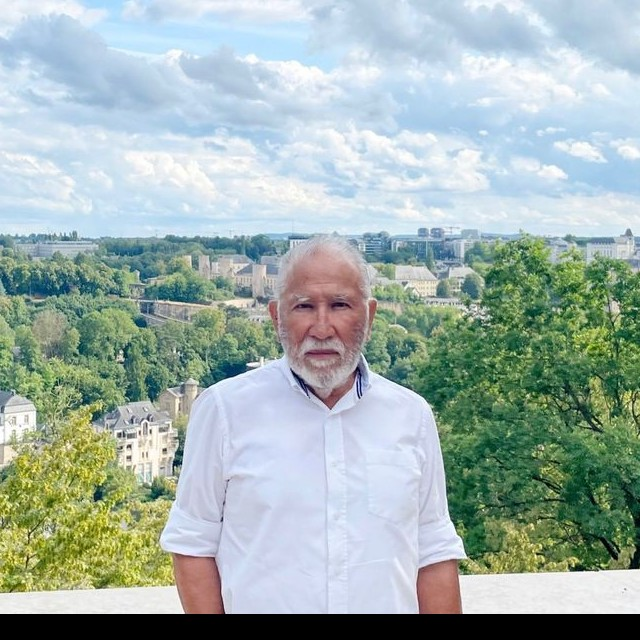
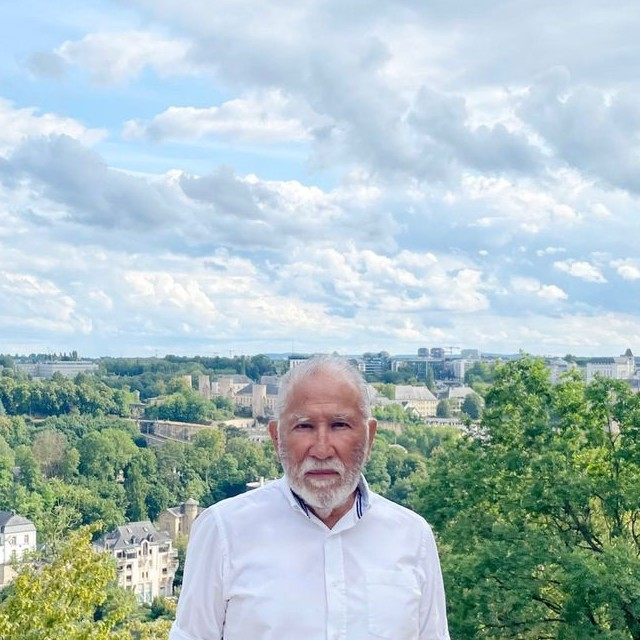
Fix black line and over-aggressive crop on mobile hero image
The crop rectangle (y=300, height=640) extended 26px past the
source photo's actual height (914px), so .NET filled the missing
rows with black — that was the line at the bottom. Regenerated the
crop starting higher up (y=180, safely within bounds) to also
restore a more natural amount of sky instead of almost none.
Switched background-position from "center bottom" back to "center
center" now that the file crop itself handles the framing, instead
of double-cropping on top of it.

diff --git a/trayectoria/index.html b/trayectoria/index.html
@@ -1,4 +1,4 @@
-<!DOCTYPE html><html lang="en"><head><script>if(localStorage.getItem('mca_unlocked')!=='1'){location.replace('/login.html?redirect='+encodeURIComponent(location.pathname+location.search));}</script><meta charset="utf-8"/><title>Trayectoria - Manuel Cárdenas Aspajo</title><meta content="Trayectoria profesional de Manuel Cárdenas Aspajo: formación como Ingeniero Civil y Arquitecto, experiencia en diseño estructural y supervisión técnica, y actividad académica universitaria." name="description"/><meta content="Trayectoria - Manuel Cárdenas Aspajo" property="og:title"/><meta content="Trayectoria profesional de Manuel Cárdenas Aspajo: formación como Ingeniero Civil y Arquitecto, experiencia en diseño estructural y supervisión técnica, y actividad académica universitaria." property="og:description"/><meta content="/images/64595fe96358086d4cb93f37_473Agency-Stolzl-Template-9.jpg" property="og:image"/><meta content="Trayectoria - Manuel Cárdenas Aspajo" name="twitter:title"/><meta content="Trayectoria profesional de Manuel Cárdenas Aspajo: formación como Ingeniero Civil y Arquitecto, experiencia en diseño estructural y supervisión técnica, y actividad académica universitaria." name="twitter:description"/><meta content="/images/64595fe96358086d4cb93f37_473Agency-Stolzl-Template-9.jpg" name="twitter:image"/><meta property="og:type" content="website"/><meta content="summary_large_image" name="twitter:card"/><meta content="width=device-width, initial-scale=1" name="viewport"/><link href="/css/mca-913f08.shared.406f649e9.css" rel="stylesheet" type="text/css" crossorigin="anonymous"/><link href="https://fonts.googleapis.com" rel="preconnect"/><link href="https://fonts.gstatic.com" rel="preconnect" crossorigin="anonymous"/><link href="https://fonts.googleapis.com/css2?family=DM+Sans:wght@400;500;700&family=Manrope:wght@200;300;400;500;600;700;800&display=swap" rel="stylesheet"/><script type="text/javascript">!function(o,c){var n=c.documentElement,t=" w-mod-";n.className+=t+"js",("ontouchstart"in o||o.DocumentTouch&&c instanceof DocumentTouch)&&(n.className+=t+"touch")}(window,document);</script><link href="/images/favicon-mca.png" rel="shortcut icon" type="image/png"/><link href="/images/favicon-mca.png" rel="apple-touch-icon"/><style>@media screen and (max-width:767px){section.padding-section-large:nth-of-type(2) .image-wrapper-grid,section.padding-section-large:nth-of-type(4) .image-wrapper-grid{order:-1;}section.padding-section-large:nth-of-type(1) .image-wrapper-grid{background-image:url(/images/trayectoria-hero-mobile.jpg);background-size:cover;background-position:center bottom;}section.padding-section-large:nth-of-type(1) .image-wrapper-grid picture{visibility:hidden;}}</style><!-- Cloudflare Web Analytics --><script type='module' src='https://static.cloudflareinsights.com/beacon.min.js' data-cf-beacon='{"token": "d984f8169b924b16a0b896f4c29c0e79"}'></script><!-- End Cloudflare Web Analytics --></head><body><div data-animation="default" class="nav-bar-component w-nav" data-easing2="ease" fs-scrolldisable-element="smart-nav" data-easing="ease" data-collapse="medium" data-w-id="a88aa5b4-1dde-e348-32a1-51b9f9bc93c0" role="banner" data-duration="400"><div class="navbar-container"><a href="/" class="navbar-logo-wrapper w-nav-brand"><img src="/images/logo-mca.svg" loading="lazy" width="91" alt="" class="navbar-logo"/></a><div class="navbar-menu-button w-nav-button"><div class="menu-icon"><div class="menu-icon-line-top"></div><div class="menu-icon-line-middle"><div class="menu-icon-line-middle-inner"></div></div><div class="menu-icon-line-bottom"></div></div></div><nav role="navigation" class="navbar-menu is-page-height-tablet w-nav-menu"><div class="navbar-link-wrapper"><a href="/" class="navbar-link w-nav-link">Inicio</a><div class="navbar-link-line"></div></div><div class="navbar-link-wrapper"><a href="/trayectoria/" aria-current="page" class="navbar-link w-nav-link w--current">Trayectoria</a><div class="navbar-link-line"></div></div><div class="navbar-link-wrapper"><a href="/servicios/" class="navbar-link w-nav-link">Servicios</a><div class="navbar-link-line"></div></div><div class="navbar-link-wrapper"><a href="/revision-urbana/" class="navbar-link w-nav-link">Revisión Urbana</a><div class="navbar-link-line"></div></div><div class="navbar-link-wrapper"><a href="/contacto/" class="navbar-link w-nav-link">Contacto</a><div class="navbar-link-line"></div></div><div data-hover="true" data-delay="200" data-w-id="a88aa5b4-1dde-e348-32a1-51b9f9bc93cb" class="navbar-menu-dropdown w-dropdown"><div class="navbar-dropdown-toggle w-dropdown-toggle"><div class="dropdown-icon w-embed"><svg width=" 100%" height=" 100%" viewBox="0 0 16 16" fill="none" xmlns="http://www.w3.org/2000/svg">
+<!DOCTYPE html><html lang="en"><head><script>if(localStorage.getItem('mca_unlocked')!=='1'){location.replace('/login.html?redirect='+encodeURIComponent(location.pathname+location.search));}</script><meta charset="utf-8"/><title>Trayectoria - Manuel Cárdenas Aspajo</title><meta content="Trayectoria profesional de Manuel Cárdenas Aspajo: formación como Ingeniero Civil y Arquitecto, experiencia en diseño estructural y supervisión técnica, y actividad académica universitaria." name="description"/><meta content="Trayectoria - Manuel Cárdenas Aspajo" property="og:title"/><meta content="Trayectoria profesional de Manuel Cárdenas Aspajo: formación como Ingeniero Civil y Arquitecto, experiencia en diseño estructural y supervisión técnica, y actividad académica universitaria." property="og:description"/><meta content="/images/64595fe96358086d4cb93f37_473Agency-Stolzl-Template-9.jpg" property="og:image"/><meta content="Trayectoria - Manuel Cárdenas Aspajo" name="twitter:title"/><meta content="Trayectoria profesional de Manuel Cárdenas Aspajo: formación como Ingeniero Civil y Arquitecto, experiencia en diseño estructural y supervisión técnica, y actividad académica universitaria." name="twitter:description"/><meta content="/images/64595fe96358086d4cb93f37_473Agency-Stolzl-Template-9.jpg" name="twitter:image"/><meta property="og:type" content="website"/><meta content="summary_large_image" name="twitter:card"/><meta content="width=device-width, initial-scale=1" name="viewport"/><link href="/css/mca-913f08.shared.406f649e9.css" rel="stylesheet" type="text/css" crossorigin="anonymous"/><link href="https://fonts.googleapis.com" rel="preconnect"/><link href="https://fonts.gstatic.com" rel="preconnect" crossorigin="anonymous"/><link href="https://fonts.googleapis.com/css2?family=DM+Sans:wght@400;500;700&family=Manrope:wght@200;300;400;500;600;700;800&display=swap" rel="stylesheet"/><script type="text/javascript">!function(o,c){var n=c.documentElement,t=" w-mod-";n.className+=t+"js",("ontouchstart"in o||o.DocumentTouch&&c instanceof DocumentTouch)&&(n.className+=t+"touch")}(window,document);</script><link href="/images/favicon-mca.png" rel="shortcut icon" type="image/png"/><link href="/images/favicon-mca.png" rel="apple-touch-icon"/><style>@media screen and (max-width:767px){section.padding-section-large:nth-of-type(2) .image-wrapper-grid,section.padding-section-large:nth-of-type(4) .image-wrapper-grid{order:-1;}section.padding-section-large:nth-of-type(1) .image-wrapper-grid{background-image:url(/images/trayectoria-hero-mobile.jpg);background-size:cover;background-position:center center;}section.padding-section-large:nth-of-type(1) .image-wrapper-grid picture{visibility:hidden;}}</style><!-- Cloudflare Web Analytics --><script type='module' src='https://static.cloudflareinsights.com/beacon.min.js' data-cf-beacon='{"token": "d984f8169b924b16a0b896f4c29c0e79"}'></script><!-- End Cloudflare Web Analytics --></head><body><div data-animation="default" class="nav-bar-component w-nav" data-easing2="ease" fs-scrolldisable-element="smart-nav" data-easing="ease" data-collapse="medium" data-w-id="a88aa5b4-1dde-e348-32a1-51b9f9bc93c0" role="banner" data-duration="400"><div class="navbar-container"><a href="/" class="navbar-logo-wrapper w-nav-brand"><img src="/images/logo-mca.svg" loading="lazy" width="91" alt="" class="navbar-logo"/></a><div class="navbar-menu-button w-nav-button"><div class="menu-icon"><div class="menu-icon-line-top"></div><div class="menu-icon-line-middle"><div class="menu-icon-line-middle-inner"></div></div><div class="menu-icon-line-bottom"></div></div></div><nav role="navigation" class="navbar-menu is-page-height-tablet w-nav-menu"><div class="navbar-link-wrapper"><a href="/" class="navbar-link w-nav-link">Inicio</a><div class="navbar-link-line"></div></div><div class="navbar-link-wrapper"><a href="/trayectoria/" aria-current="page" class="navbar-link w-nav-link w--current">Trayectoria</a><div class="navbar-link-line"></div></div><div class="navbar-link-wrapper"><a href="/servicios/" class="navbar-link w-nav-link">Servicios</a><div class="navbar-link-line"></div></div><div class="navbar-link-wrapper"><a href="/revision-urbana/" class="navbar-link w-nav-link">Revisión Urbana</a><div class="navbar-link-line"></div></div><div class="navbar-link-wrapper"><a href="/contacto/" class="navbar-link w-nav-link">Contacto</a><div class="navbar-link-line"></div></div><div data-hover="true" data-delay="200" data-w-id="a88aa5b4-1dde-e348-32a1-51b9f9bc93cb" class="navbar-menu-dropdown w-dropdown"><div class="navbar-dropdown-toggle w-dropdown-toggle"><div class="dropdown-icon w-embed"><svg width=" 100%" height=" 100%" viewBox="0 0 16 16" fill="none" xmlns="http://www.w3.org/2000/svg">
 <path fill-rule="evenodd" clip-rule="evenodd" d="M2.55806 6.29544C2.46043 6.19781 2.46043 6.03952 2.55806 5.94189L3.44195 5.058C3.53958 4.96037 3.69787 4.96037 3.7955 5.058L8.00001 9.26251L12.2045 5.058C12.3021 4.96037 12.4604 4.96037 12.5581 5.058L13.4419 5.94189C13.5396 6.03952 13.5396 6.19781 13.4419 6.29544L8.17678 11.5606C8.07915 11.6582 7.92086 11.6582 7.82323 11.5606L2.55806 6.29544Z" fill="currentColor"/>
 </svg></div><div class="text-block-3">About</div></div><nav class="navbar-dropdown-list w-dropdown-list"><a href="#" class="navbar-dropdown-link w-dropdown-link">Link Five</a><a href="#" class="navbar-dropdown-link w-dropdown-link">Link Six</a><a href="#" class="navbar-dropdown-link w-dropdown-link">Link Seven</a></nav></div></nav></div></div><section class="section padding-section-large"><div class="container"><div class="w-layout-grid grid-1-layout"><div class="image-wrapper-grid"><picture><source media="(max-width: 767px)" srcset="/images/trayectoria-hero-mobile.jpg"/><img class="image-medium" src="/images/6a732a7c33e0b2f32211f4d3_PHOTO-2026-07-06-21-50-14.jpg" alt="" sizes="(max-width: 479px) 100vw, 560px" loading="lazy" srcset="/images/6a732a7c33e0b2f32211f4d3_PHOTO-2026-07-06-21-50-14-p-500.jpg 500w, /images/6a732a7c33e0b2f32211f4d3_PHOTO-2026-07-06-21-50-14-p-800.jpg 800w, /images/6a732a7c33e0b2f32211f4d3_PHOTO-2026-07-06-21-50-14-p-1080.jpg 1080w, /images/6a732a7c33e0b2f32211f4d3_PHOTO-2026-07-06-21-50-14-p-1600.jpg 1600w, /images/6a732a7c33e0b2f32211f4d3_PHOTO-2026-07-06-21-50-14.jpg 1920w"/></picture></div><div id="w-node-_5c5f67ec-3cf6-5b0b-4cc5-36987455fb96-4f41995e" class="content-grid-wrapper align-end reveal-el"><h1 class="heading-style-h1">Manuel Cárdenas Aspajo.</h1><p class="text-size-small"><br/>Ingeniero civil, Arquitecto y Revisor Urbano certificado, con experiencia en diseño estructural, arquitectura, supervisión técnica, revisión normativa y gestión integral de proyectos.</p></div></div></div></section><section class="section padding-section-large"><div class="container"><div class="w-layout-grid grid-1-layout"><div id="w-node-c9ee99d3-fc5f-d504-c17c-0bb8411c451b-4f41995e" class="content-grid-wrapper align-end reveal-el"><div class="heading-h2-wrapper"><h2 class="heading-style-h4">Formación y acreditaciones.</h2></div><div class="text-block-wrapper"><p class="text-size-small"><strong>Ingeniero Civil</strong> <br/>Universidad Nacional de Ingeniería (UNI)<br/>CIP 14386<br/><strong><br/>Arquitecto<br/></strong>Universidad Alas Peruanas (UAP)<br/>CAP 19120<strong><br/><br/>Revisor Urbano<br/></strong>Ministerio de Vivienda, Construcción y Saneamiento <br/>Categoría EE-III · Registro N.° 0215</p></div></div><div class="image-wrapper-grid"><img class="image-medium" src="/images/6a6b859f3790cdd84f4199ce_473Agency-Stolzl-Template-5.jpg" alt="" sizes="(max-width: 479px) 100vw, 560px" loading="lazy" srcset="/images/6a6b859f3790cdd84f4199ce_473Agency-Stolzl-Template-5-p-500.jpg 500w, /images/6a6b859f3790cdd84f4199ce_473Agency-Stolzl-Template-5-p-800.jpg 800w, /images/6a6b859f3790cdd84f4199ce_473Agency-Stolzl-Template-5-p-1080.jpg 1080w, /images/6a6b859f3790cdd84f4199ce_473Agency-Stolzl-Template-5.jpg 1280w"/></div></div></div></section><section class="section padding-section-large"><div class="container"><div class="w-layout-grid grid-1-layout"><div class="image-wrapper-grid"><img class="image-medium" src="/images/trayectoria-experiencia-profesional.jpg" alt="Fachada de concreto de arquitectura moderna minimalista"/></div><div id="w-node-_7e8e447b-0bdc-1eda-a026-6f7ffd69898b-4f41995e" class="content-grid-wrapper align-end reveal-el"><h1 class="heading-style-h4">Experiencia profesional.</h1><p id="w-node-_7e8e447b-0bdc-1eda-a026-6f7ffd69898e-4f41995e" class="text-size-small"><br/><strong>Más de cincuenta años de trayectoria como Ingeniero Civil</strong>, orientados al diseño estructural, la supervisión técnica y el desarrollo de proyectos de diversa complejidad, bajo una práctica rigurosa y orientada a la calidad.<strong><br/><br/>Más de nueve años de experiencia como Arquitecto</strong>, articulando criterio estructural, diseño arquitectónico y soluciones espaciales funcionales, con una visión madura e integral del proyecto e interés en la incorporación de criterios de arquitectura sostenible.<strong><br/><br/>Más de tres años como Revisor Urbano Certificado</strong>, especializado en la revisión normativa digital y en la evaluación técnica de expedientes conforme al Reglamento Nacional de Edificaciones, aportando claridad, precisión y solidez técnica al proceso de aprobación.<br/><br/><strong>Gerente General</strong><br/>Global Arquitectura, Ingeniería y Construcción S.A.C.<br/>Dirección técnica y gestión integral de proyectos residenciales, comerciales, multifamiliares e industriales.<br/><br/><strong>Más de 42 años como Revisor Municipal</strong><br/>Colegio de Ingenieros del Perú — Consejo Departamental de Lima<br/>Evaluación técnica y normativa de proyectos arquitectónicos y estructurales conforme al Reglamento Nacional de Edificaciones.<br/></p></div></div></div></section><section class="section padding-section-large"><div class="container"><div class="w-layout-grid grid-1-layout"><div id="w-node-d908e627-bb0f-44f3-7a57-17225bc97524-4f41995e" class="content-grid-wrapper align-end reveal-el"><div class="heading-h2-wrapper"><h2 class="heading-style-h4">Actividad académica.</h2></div><div class="text-block-wrapper"><p class="text-size-small"><strong>Universidad Ricardo Palma<br/></strong>Docente Universitario de Estructuras<strong><br/><br/>Universidad Nacional Federico Villarreal<br/></strong>Docente Universitario de Estructuras<strong><br/><br/>Universidad de San Martín de Porres<br/></strong>Docente Universitario de Estructuras<strong><br/><br/>SENCICO<br/></strong>Docente </p></div></div><div class="image-wrapper-grid"><img class="image-medium" src="/images/trayectoria-actividad-academica.jpg" alt="Edificio institucional de concreto con diseño arquitectónico minimalista"/></div></div></div></section><section class="section padding-section-large"><div class="container"><div class="w-layout-grid grid-1-layout"><div class="image-wrapper-grid"><img class="image-medium" src="/images/6a6b859f3790cdd84f419a2b_473Agency-Stolzl-Template-25-p-800.jpg" alt=""/></div><div class="content-grid-wrapper align-end reveal-el"><div class="heading-h2-wrapper"><h2 class="heading-style-h4">Asociaciones profesionales.</h2></div><div class="text-block-wrapper"><p class="text-size-small"><strong>Asociación de Ingeniería Sísmica<br/></strong>Miembro fundador<strong><br/><br/>Asociación Peruana de Consultoría<br/></strong>Miembro</p></div></div></div></div></section><footer class="footer background-color-primary-dark"><div class="padding-global"><div class="container"><div class="padding-vertical padding-xxlarge"><div style="display:flex;justify-content:flex-start;margin-bottom:2rem;"><img src="/images/logo-mca.svg" loading="lazy" width="91" alt=""/></div><div class="padding-bottom padding-xxlarge"><div class="w-layout-hflex flex-block"><div class="adress-wrapper"><div class="text-size-small"><strong>Dirección:</strong><br/>Pasaje Los Pinos 190<br/>Oficinas 804–805<br/>Miraflores 15074<br/>Lima, Perú<br/><br/><span class="text-weight-semibold">Contacto:<br/></span><a href="#" class="link">ingmanuelcardenasaspajo@yahoo.com</a></div></div><div class="footer-link-list"><a href="/" class="footer-link">Inicio</a><a href="/trayectoria/" aria-current="page" class="footer-link w--current">Trayectoria</a><a href="/servicios/" class="footer-link">Servicios</a><a href="/revision-urbana/" class="footer-link">Revisión Urbana</a><a href="/contacto/" class="footer-link">Contacto</a></div><div class="footer-left-wrapper"><div class="w-layout-grid footer-social-list"><a href="https://pe.linkedin.com/in/manuel-c%C3%A1rdenas-aspajo-07104537" target="_blank" rel="noopener noreferrer" class="footer3_social-link w-inline-block"><div class="social-icon w-embed"><svg width="24" height="24" viewBox="0 0 24 24" fill="none" xmlns="http://www.w3.org/2000/svg">
 <path fill-rule="evenodd" clip-rule="evenodd" d="M5 3H19C20.1046 3 21 3.89543 21 5V19C21 20.1046 20.1046 21 19 21H5C3.89543 21 3 20.1046 3 19V5C3 3.89543 3.89543 3 5 3ZM8 18C8.27614 18 8.5 17.7761 8.5 17.5V10.5C8.5 10.2239 8.27614 10 8 10H6.5C6.22386 10 6 10.2239 6 10.5V17.5C6 17.7761 6.22386 18 6.5 18H8ZM7.25 9C6.42157 9 5.75 8.32843 5.75 7.5C5.75 6.67157 6.42157 6 7.25 6C8.07843 6 8.75 6.67157 8.75 7.5C8.75 8.32843 8.07843 9 7.25 9ZM17.5 18C17.7761 18 18 17.7761 18 17.5V12.9C18.0325 11.3108 16.8576 9.95452 15.28 9.76C14.177 9.65925 13.1083 10.1744 12.5 11.1V10.5C12.5 10.2239 12.2761 10 12 10H10.5C10.2239 10 10 10.2239 10 10.5V17.5C10 17.7761 10.2239 18 10.5 18H12C12.2761 18 12.5 17.7761 12.5 17.5V13.75C12.5 12.9216 13.1716 12.25 14 12.25C14.8284 12.25 15.5 12.9216 15.5 13.75V17.5C15.5 17.7761 15.7239 18 16 18H17.5Z" fill="CurrentColor"/>
